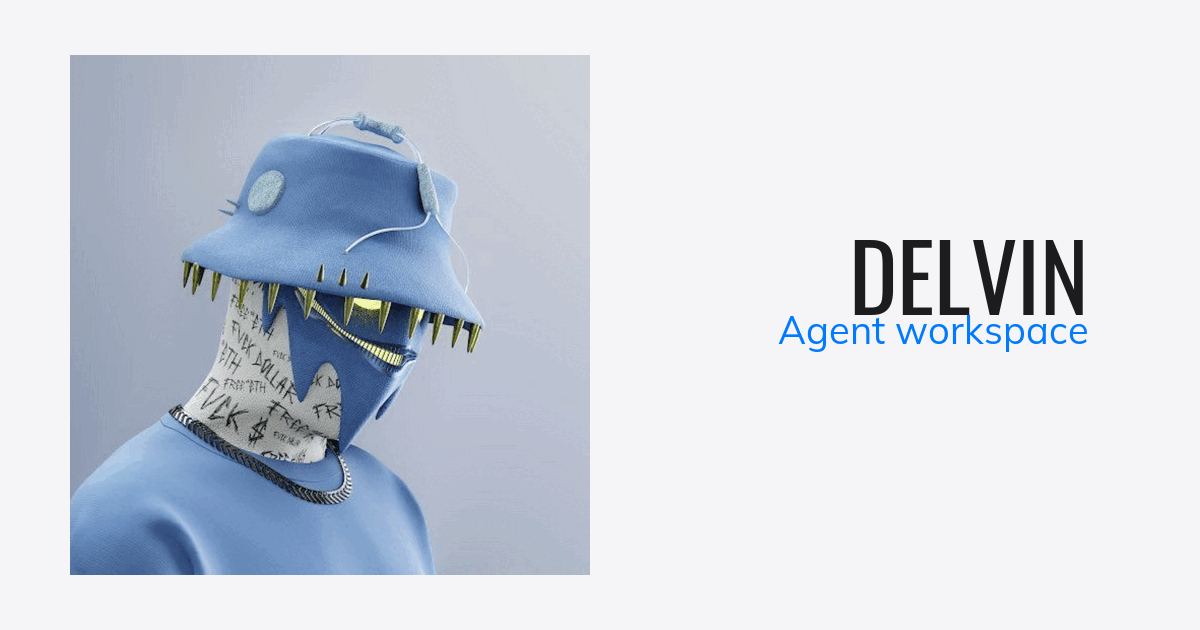
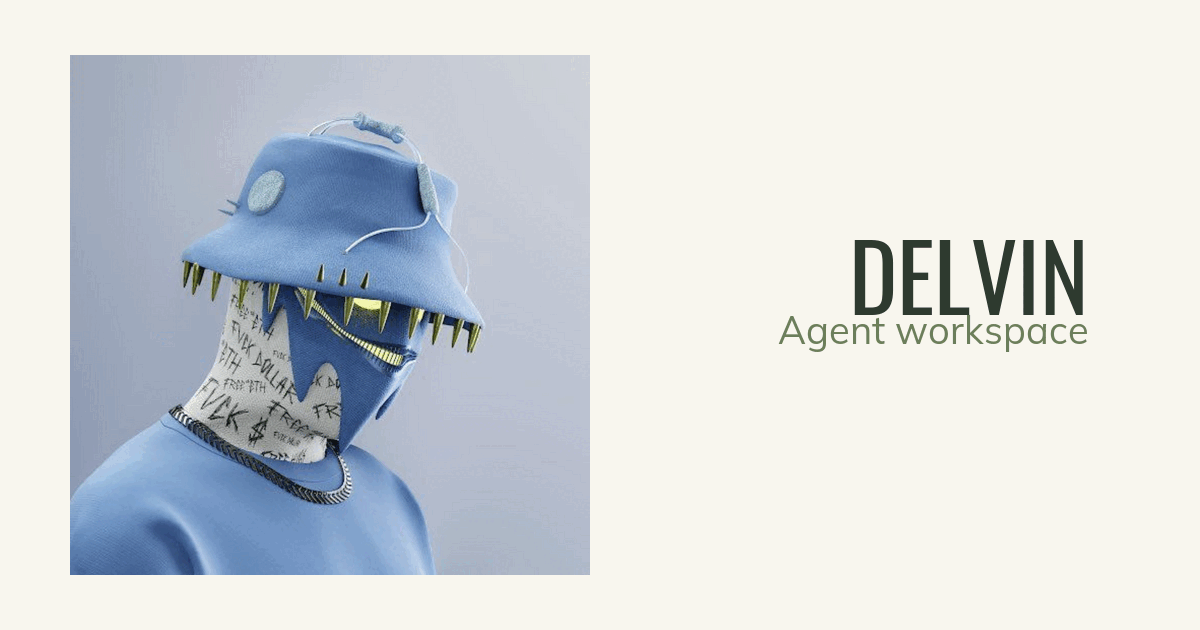
feat(web): restore Earthy Minimal palette

Changed region(s): [[0.6475, 0.3619, 0.925, 0.573]]

diff --git a/apps/web/app/globals.css b/apps/web/app/globals.css
@@ -45,54 +45,54 @@
 }
 
 /* ---------------------------------------------------------------------------
-   Delvin Apple Modern palette. Channels are bare "H S% L%" so Tailwind
+   Delvin Earthy Minimal palette. Channels are bare "H S% L%" so Tailwind
    opacity modifiers remain available throughout the interface.
 --------------------------------------------------------------------------- */
 :root {
   color-scheme: light;
 
-  /* Brand: #F5F5F7 · #1D1D1F · #AAAAAA · #007AFF */
-  --primary: 240 3% 12%;
-  --brand-secondary: 0 0% 67%;
-  --brand-tertiary: 240 11% 96%;
-  --accent: 211 100% 50%;
-  --highlight: 211 100% 50%;
-  --highlight-text: 0 0% 100%;
+  /* Brand: #2E3A2F · #6B7F5B · #D9C9B2 · #C96F4F · #F8F6EE */
+  --primary: 126 12% 20%;
+  --brand-secondary: 93 17% 43%;
+  --brand-tertiary: 35 34% 77%;
+  --accent: 16 54% 55%;
+  --highlight: 35 34% 77%;
+  --highlight-text: 126 12% 20%;
 
   /* Surfaces */
-  --surface-primary: 240 11% 96%;
-  --surface-secondary: 0 0% 100%;
-  --surface-tertiary: 240 11% 96%;
-  --surface-floating: 0 0% 100%;
-  --surface-raised: 0 0% 93%;
-  --surface-raised-tertiary: 240 8% 97%;
-  --surface-skeleton: 0 0% 88%;
-  --surface-highlight: 211 100% 96%;
+  --surface-primary: 48 42% 95%;
+  --surface-secondary: 46 38% 98%;
+  --surface-tertiary: 39 34% 92%;
+  --surface-floating: 46 38% 99%;
+  --surface-raised: 35 34% 88%;
+  --surface-raised-tertiary: 43 34% 94%;
+  --surface-skeleton: 35 24% 84%;
+  --surface-highlight: 35 34% 90%;
 
   /* Text */
-  --text-primary: 240 3% 12%;
-  --text-secondary: 240 2% 28%;
-  --text-tertiary: 0 0% 45%;
-  --text-muted: 0 0% 60%;
-  --text-placeholder: 0 0% 67%;
+  --text-primary: 126 12% 20%;
+  --text-secondary: 120 8% 31%;
+  --text-tertiary: 96 9% 39%;
+  --text-muted: 76 7% 52%;
+  --text-placeholder: 52 9% 63%;
 
   /* Borders */
-  --border-faint: 0 0% 89%;
-  --border-medium: 0 0% 80%;
-  --border-strong: 211 100% 50%;
+  --border-faint: 38 22% 86%;
+  --border-medium: 35 24% 77%;
+  --border-strong: 93 17% 54%;
 
   /* Interactive */
-  --interactive-normal: 240 3% 12%;
-  --interactive-active: 240 3% 12%;
-  --interactive-link: 211 100% 50%;
-  --interactive-positive: 142 49% 36%;
-  --interactive-negative: 4 83% 54%;
-  --interactive-warning: 211 100% 50%;
-  --interactive-cta: 211 100% 50%;
-  --interactive-cta-hover: 211 100% 43%;
-  --interactive-on-cta: 0 0% 100%;
-  --interactive-cta-secondary: 240 11% 96%;
-  --interactive-cta-secondary-hover: 0 0% 93%;
+  --interactive-normal: 126 12% 27%;
+  --interactive-active: 126 12% 20%;
+  --interactive-link: 126 24% 31%;
+  --interactive-positive: 119 27% 38%;
+  --interactive-negative: 6 58% 47%;
+  --interactive-warning: 16 54% 55%;
+  --interactive-cta: 126 12% 20%;
+  --interactive-cta-hover: 93 17% 43%;
+  --interactive-on-cta: 48 42% 95%;
+  --interactive-cta-secondary: 39 34% 92%;
+  --interactive-cta-secondary-hover: 35 34% 86%;
 
   /* Font stacks (Delvin brand fonts, self-hosted) */
   --font-serif: "Delvin Roboto Slab", ui-serif, Georgia, Cambria, serif;
@@ -103,10 +103,10 @@
   /* Sidebar rail */
   /* The rail shares the page canvas rather than sitting on a darker panel —
      matching the reference, where the two are separated by a 1px border only. */
-  --sidebar: 240 11% 96%;
-  --sidebar-foreground: 240 3% 12%;
-  --sidebar-accent: 0 0% 93%;
-  --sidebar-border: 0 0% 89%;
+  --sidebar: 48 42% 95%;
+  --sidebar-foreground: 126 12% 20%;
+  --sidebar-accent: 39 34% 90%;
+  --sidebar-border: 38 22% 86%;
 }
 
 * {

diff --git a/apps/web/branding.config.ts b/apps/web/branding.config.ts
@@ -2,7 +2,7 @@
  * Central branding config — change only here + env.
  *
  * The workspace uses Arena's restrained agent layout while every visible
- * identity token—artwork, type and the Apple Modern palette—belongs to Delvin.
+ * identity token—artwork, type and the Earthy Minimal palette—belongs to Delvin.
  */
 export const BRANDING = {
   PRODUCT_NAME: process.env.NEXT_PUBLIC_PRODUCT_NAME || process.env.PRODUCT_NAME || "Delvin",
@@ -14,9 +14,9 @@ export const BRANDING = {
   OG_IMAGE_PATH: "/assets/og.png",
 
   // "H S% L%" channels consumed by the CSS custom properties in globals.css
-  PRIMARY_COLOR: "240 3% 12%",
-  ACCENT_COLOR: "211 100% 50%",
-  HIGHLIGHT_COLOR: "211 100% 50%",
+  PRIMARY_COLOR: "126 12% 20%",
+  ACCENT_COLOR: "16 54% 55%",
+  HIGHLIGHT_COLOR: "35 34% 77%",
 
   // Hero copy — the highlight block renders HERO_TITLE_HIGHLIGHT
   HERO_TITLE_LEAD: process.env.NEXT_PUBLIC_HERO_TITLE_LEAD || "Experience",

diff --git a/apps/web/app/layout.tsx b/apps/web/app/layout.tsx
@@ -28,7 +28,7 @@ export const metadata: Metadata = {
 };
 
 export const viewport: Viewport = {
-  themeColor: "#F5F5F7",
+  themeColor: "#F8F6EE",
   colorScheme: "light",
   width: "device-width",
   initialScale: 1,
